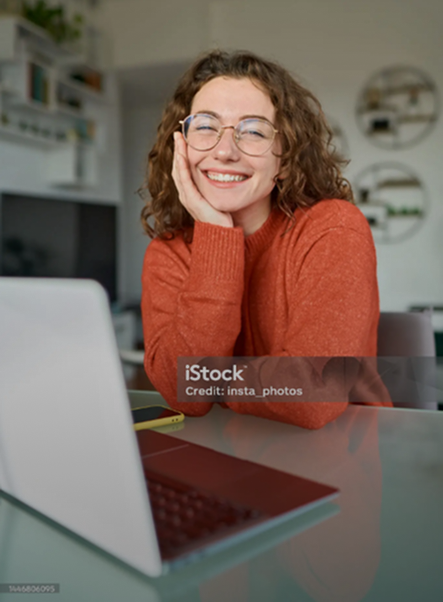
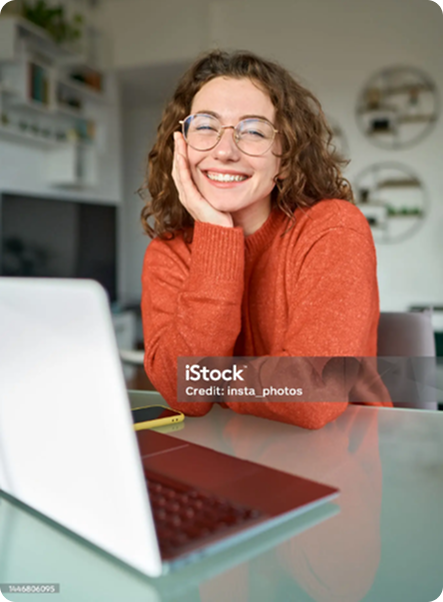
Adjust light theme

diff --git a/index.html b/index.html
@@ -77,8 +77,8 @@
             <div class="links">
               <a href="https://w.app/7x8du4" target="_blank" class="primary">
                 <!-- biome-ignore lint/a11y/noSvgWithoutTitle: empty title -->
-                <svg width="32" height="32" viewBox="0 0 32 32" fill="none" xmlns="http://www.w3.org/2000/svg">
-                  <path d="M23.845 8.05505C21.75 5.95505 18.96 4.80005 15.995 4.80005C9.87499 4.80005 4.89499 9.78005 4.89499 15.9C4.89499 17.855 5.40499 19.765 6.37499 21.45L4.79999 27.2L10.685 25.655C12.305 26.54 14.13 27.005 15.99 27.005H15.995C22.11 27.005 27.2 22.025 27.2 15.905C27.2 12.94 25.94 10.155 23.845 8.05505ZM15.995 25.135C14.335 25.135 12.71 24.69 11.295 23.85L10.96 23.65L7.46999 24.565L8.39999 21.16L8.17999 20.81C7.25499 19.34 6.76999 17.645 6.76999 15.9C6.76999 10.815 10.91 6.67505 16 6.67505C18.465 6.67505 20.78 7.63505 22.52 9.38005C24.26 11.125 25.33 13.44 25.325 15.905C25.325 20.9951 21.08 25.135 15.995 25.135ZM21.055 18.225C20.78 18.085 19.415 17.415 19.16 17.325C18.905 17.23 18.72 17.185 18.535 17.465C18.35 17.745 17.82 18.365 17.655 18.555C17.495 18.74 17.33 18.765 17.055 18.625C15.425 17.81 14.355 17.17 13.28 15.325C12.995 14.835 13.565 14.87 14.095 13.8101C14.185 13.625 14.14 13.465 14.07 13.325C14 13.185 13.445 11.82 13.215 11.265C12.99 10.725 12.76 10.8 12.59 10.79C12.43 10.78 12.245 10.78 12.06 10.78C11.875 10.78 11.575 10.85 11.32 11.125C11.065 11.405 10.35 12.075 10.35 13.44C10.35 14.805 11.345 16.125 11.48 16.3101C11.62 16.495 13.435 19.295 16.22 20.5C17.98 21.26 18.67 21.325 19.55 21.195C20.085 21.115 21.19 20.525 21.42 19.875C21.65 19.225 21.65 18.67 21.58 18.555C21.515 18.43 21.33 18.36 21.055 18.225Z" fill="#E6E6E6"/>
+                <svg xmlns="http://www.w3.org/2000/svg" width="32" height="32" viewBox="0 0 32 32">
+                  <path fill="currentColor" d="M23.845 8.05505C21.75 5.95505 18.96 4.80005 15.995 4.80005C9.87499 4.80005 4.89499 9.78005 4.89499 15.9C4.89499 17.855 5.40499 19.765 6.37499 21.45L4.79999 27.2L10.685 25.655C12.305 26.54 14.13 27.005 15.99 27.005H15.995C22.11 27.005 27.2 22.025 27.2 15.905C27.2 12.94 25.94 10.155 23.845 8.05505ZM15.995 25.135C14.335 25.135 12.71 24.69 11.295 23.85L10.96 23.65L7.46999 24.565L8.39999 21.16L8.17999 20.81C7.25499 19.34 6.76999 17.645 6.76999 15.9C6.76999 10.815 10.91 6.67505 16 6.67505C18.465 6.67505 20.78 7.63505 22.52 9.38005C24.26 11.125 25.33 13.44 25.325 15.905C25.325 20.9951 21.08 25.135 15.995 25.135ZM21.055 18.225C20.78 18.085 19.415 17.415 19.16 17.325C18.905 17.23 18.72 17.185 18.535 17.465C18.35 17.745 17.82 18.365 17.655 18.555C17.495 18.74 17.33 18.765 17.055 18.625C15.425 17.81 14.355 17.17 13.28 15.325C12.995 14.835 13.565 14.87 14.095 13.8101C14.185 13.625 14.14 13.465 14.07 13.325C14 13.185 13.445 11.82 13.215 11.265C12.99 10.725 12.76 10.8 12.59 10.79C12.43 10.78 12.245 10.78 12.06 10.78C11.875 10.78 11.575 10.85 11.32 11.125C11.065 11.405 10.35 12.075 10.35 13.44C10.35 14.805 11.345 16.125 11.48 16.3101C11.62 16.495 13.435 19.295 16.22 20.5C17.98 21.26 18.67 21.325 19.55 21.195C20.085 21.115 21.19 20.525 21.42 19.875C21.65 19.225 21.65 18.67 21.58 18.555C21.515 18.43 21.33 18.36 21.055 18.225Z" fill="#E6E6E6"/>
                 </svg>
                 Whatsapp
               </a>
@@ -93,9 +93,10 @@
             </div>
           </div>
           <div class="img-container" style="position: relative;">
+            <div class="dark-overlay"></div>
             <img src="/satisfied_customer.png" alt="A woman smiling with a notebook on a desk">
-            <div class="blur-highlight"></div>
-            <div class="blur-highlight"></div>
+            <div class="blur-highlight yellow"></div>
+            <div class="blur-highlight purple"></div>
           </div>
         </section>
         <section class="products" id="products">

diff --git a/index.css b/index.css
@@ -42,13 +42,13 @@ a {
 }
 
 body.light-theme {
-  --bg0: hsl(0, 0%, 90%);
-  --bg1: hsl(0, 0%, 85%);
-  --bg2: hsl(0, 0%, 80%);
-  --bg3: hsl(0, 0%, 75%);
-  --bg4: hsl(0, 0%, 70%);
+  --bg0: hsl(0, 0%, 87%);
+  --bg1: hsl(0, 0%, 90%);
+  --bg2: hsl(0, 0%, 93%);
+  --bg3: hsl(0, 0%, 96%);
+  --bg4: hsl(0, 0%, 99%);
   --text: hsl(0, 0%, 10%);
-  --text-muted: hsl(0, 0%, 30%);
+  --text-muted: hsl(0, 0%, 40%);
 }
 
 body {
@@ -150,6 +150,11 @@ header .modal {
   z-index: 1;
 }
 
+.light-theme header .modal {
+  background: var(--bg2);
+  box-shadow: var(--shadow-sm);
+}
+
 header .modal.open {
   display: flex;
   flex-direction: column;
@@ -243,6 +248,10 @@ section.hero a.primary {
   color: var(--text);
 }
 
+.light-theme section.hero a.primary {
+  box-shadow: var(--shadow-sm);
+}
+
 section.hero a.primary:hover {
   background-color: var(--bg3);
 }
@@ -254,6 +263,21 @@ section.hero a.secondary svg {
 
 section.hero a.secondary:hover {
   background-color: var(--bg1);
+}
+
+section.hero .dark-overlay {
+  z-index: 2;
+  position: absolute;
+  top: 0%;
+  left: 0%;
+  width: 100%;
+  height: 100%;
+  background: linear-gradient(0deg, hsla(0, 0%, 0%, 0.4) 0%, hsla(0, 0%, 0%, 0) 100%);
+  border-radius: var(--radius-xl);
+}
+
+.light-theme section.hero .dark-overlay {
+  display: none;
 }
 
 section.hero img {
@@ -272,13 +296,13 @@ section.hero .blur-highlight {
   border-radius: 50%;
 }
 
-section.hero .blur-highlight:first-of-type {
+section.hero .blur-highlight.yellow {
   top: 10%;
   left: 30%;
   box-shadow: 0px 0px 175px 75px hsla(67, 92%, 59%, 0.5);
 }
 
-section.hero .blur-highlight:last-of-type {
+section.hero .blur-highlight.purple {
   bottom: 10%;
   right: 20%;
   box-shadow: 0px 0px 175px 75px hsla(255, 73%, 64%, 0.5);
@@ -317,6 +341,11 @@ section.products .product-card {
   background: linear-gradient(0deg, var(--bg1) 0%, var(--bg2) 100%);
   box-shadow: var(--shadow-md), var(--top-highlight-md);
   color: var(--text);
+}
+
+.light-theme section.products .product-card {
+  background: var(--bg2);
+  box-shadow: var(--shadow-sm);
 }
 
 section.products .product-card h1 {
@@ -398,6 +427,11 @@ section .pricing-plans .pricing-card {
   color: var(--text);
 }
 
+.light-theme section .pricing-plans .pricing-card {
+  background: var(--bg2);
+  box-shadow: var(--shadow-sm);
+}
+
 section .pricing-plans .pricing-card:nth-child(2) {
   margin-top: -1.5rem;
   height: calc(100% + 1.5rem);
@@ -442,6 +476,15 @@ section .pricing-plans .pricing-card a {
 
 section .pricing-plans .pricing-card a:hover {
   background: linear-gradient(0deg, var(--bg4) 0%, var(--bg5) 100%);
+}
+
+.light-theme section .pricing-plans .pricing-card a {
+  background: var(--bg3);
+  box-shadow: var(--shadow-sm);
+}
+
+.light-theme section .pricing-plans .pricing-card a:hover {
+  background: var(--bg4);
 }
 
 section .pricing-plans .features {
